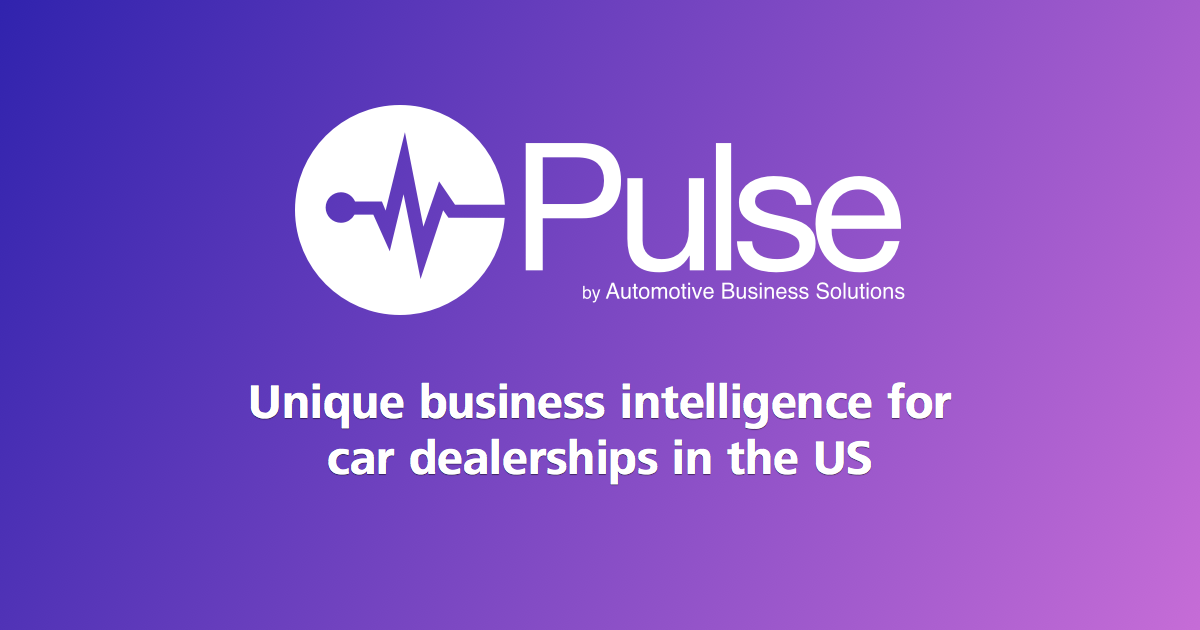
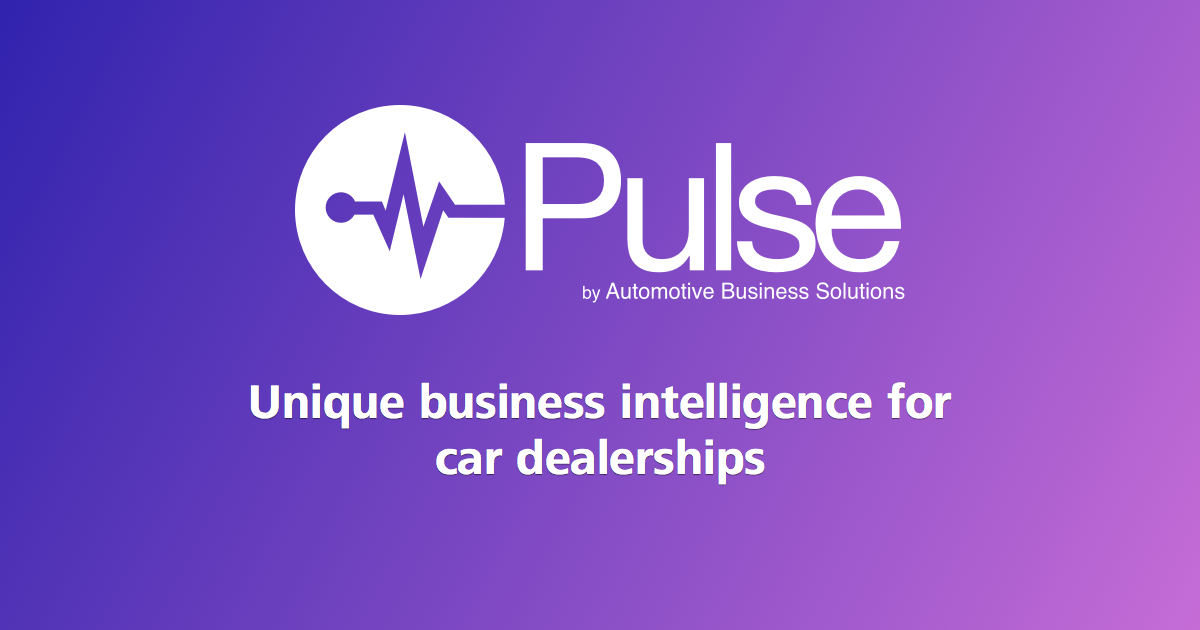
us market spec removed

Changed region(s): [[0.2775, 0.6937, 0.74, 0.7841]]

diff --git a/src/index.html b/src/index.html
@@ -8,7 +8,7 @@
   <link rel="icon" type="image/png" href="/images/favicon.png">
 
   <!-- Facebook  -->
-  <meta property="og:title" content="Unique business intelligence for car dealerships in the US">
+  <meta property="og:title" content="Unique business intelligence for car dealerships">
   <meta property="og:site_name" content="Pulse">
   <meta property="og:url" content="https://abspulse.com">
   <meta property="og:description" content="Pulse scans millions of vehicle listings to analyze sales patterns, estimating average time on market and sale prices for any car configuration.">
@@ -17,7 +17,7 @@
 
   <!-- Twitter  -->
   <meta name="twitter:card" content="summary">
-  <meta name="twitter:title" content="Pulse - Unique business intelligence for car dealerships in the US">
+  <meta name="twitter:title" content="Pulse - Unique business intelligence for car dealerships">
   <meta name="twitter:description" content="Pulse scans millions of vehicle listings to analyze sales patterns, estimating average time on market and sale prices for any car configuration.">
   <meta name="twitter:image" content="https://abspulse.com/images/og_image.png">
 
@@ -29,7 +29,7 @@
       <div class="row">
         <div class="col-lg-8 col-lg-offset-2">
           <img src="images/logo.svg" alt="logo" class="logo" />
-          <h1>Unique business intelligence for<br> car dealerships in the US</h1>
+          <h1>Unique business intelligence for car dealerships</h1>
         </div>
       </div>
       <div class="row">
